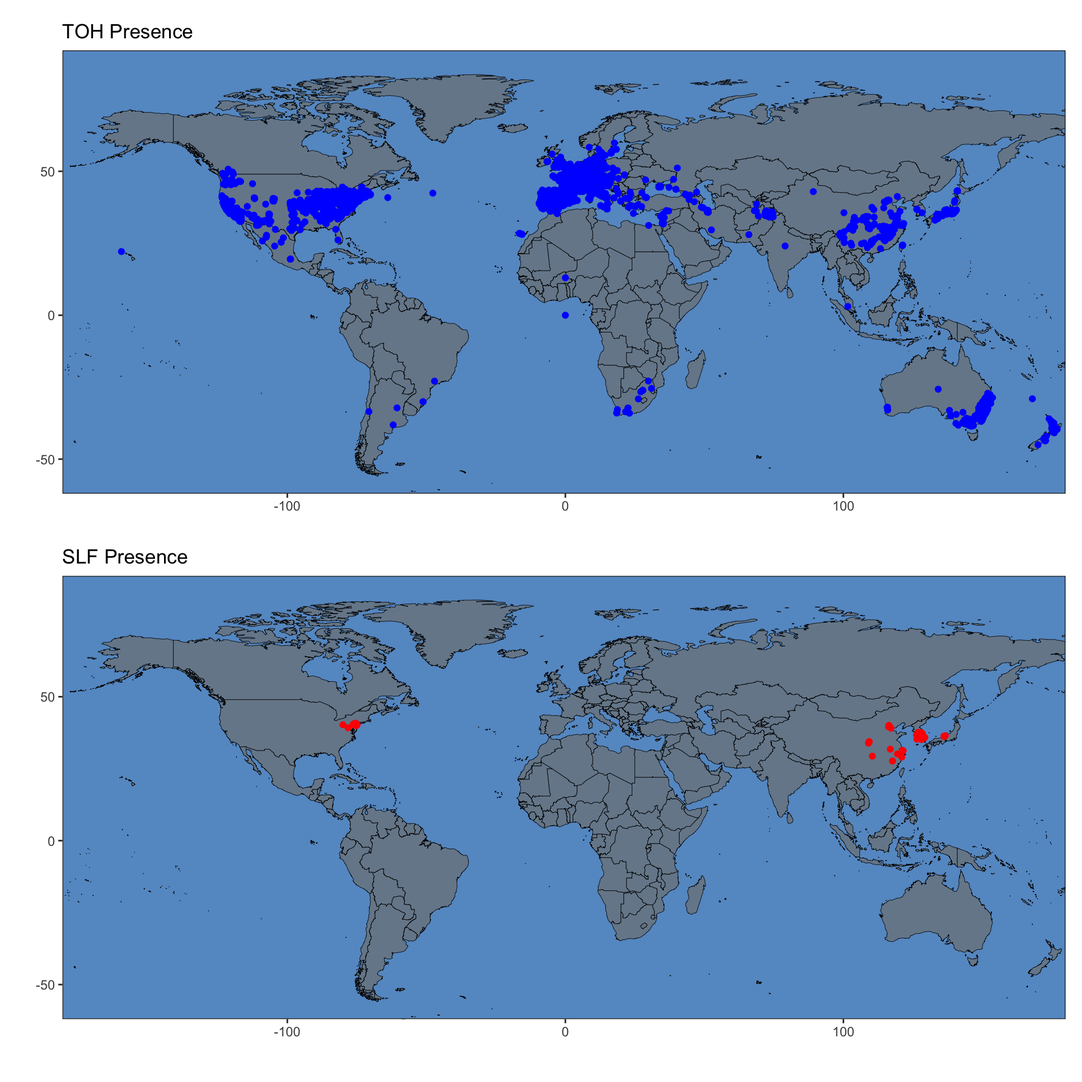
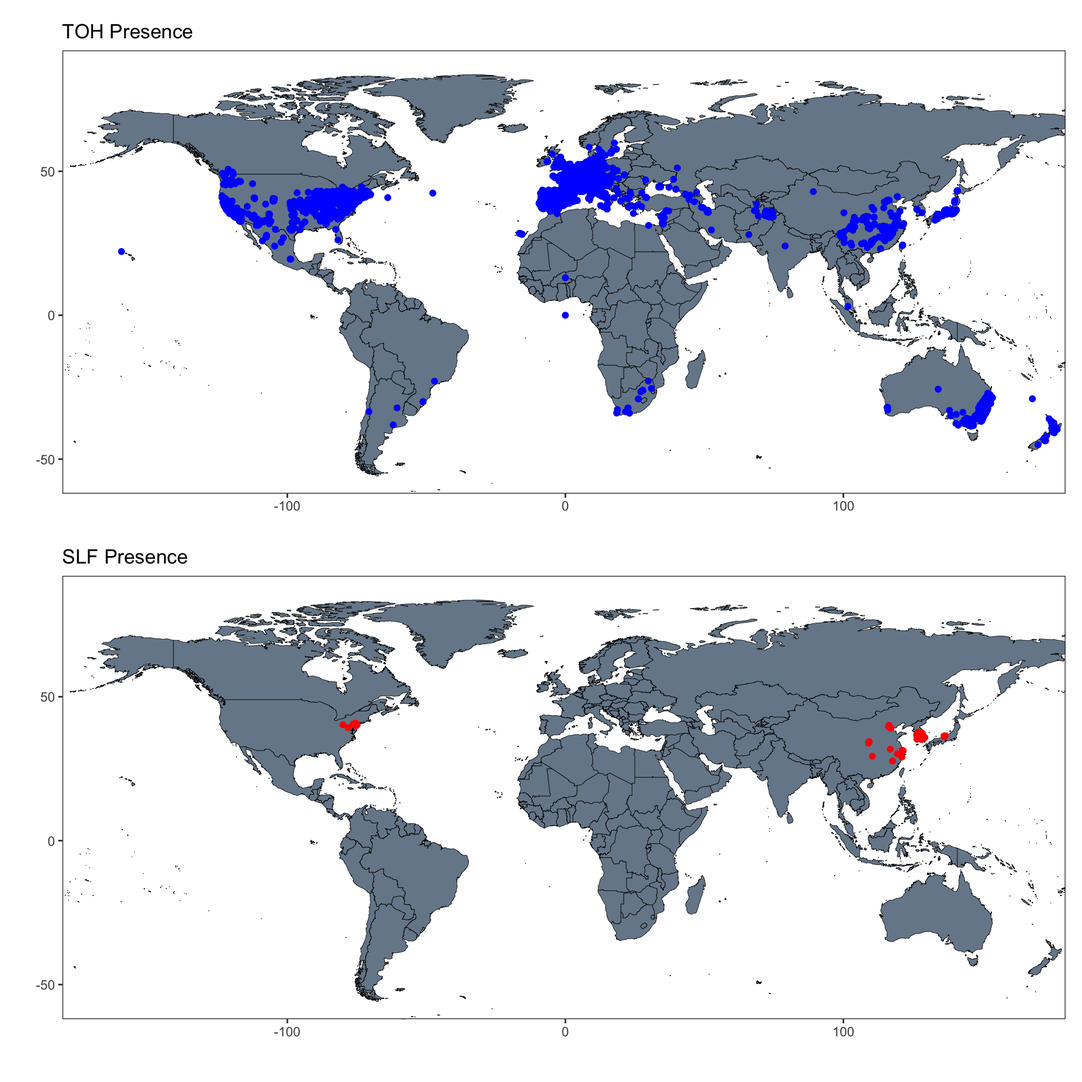
changed the title of vignettes and built site. threw a warning but still built

diff --git a/docs/articles/vignette-011-suitability-models.html b/docs/articles/vignette-011-suitability-models.html
@@ -5,13 +5,13 @@
 <meta charset="utf-8">
 <meta http-equiv="X-UA-Compatible" content="IE=edge">
 <meta name="viewport" content="width=device-width, initial-scale=1.0">
-<title>vignette-011-suitability-models • slfrsk</title>
+<title>Suitability Modeling &amp; Evaluation • slfrsk</title>
 <!-- jquery --><script src="https://cdnjs.cloudflare.com/ajax/libs/jquery/3.4.1/jquery.min.js" integrity="sha256-CSXorXvZcTkaix6Yvo6HppcZGetbYMGWSFlBw8HfCJo=" crossorigin="anonymous"></script><!-- Bootstrap --><link rel="stylesheet" href="https://cdnjs.cloudflare.com/ajax/libs/twitter-bootstrap/3.4.1/css/bootstrap.min.css" integrity="sha256-bZLfwXAP04zRMK2BjiO8iu9pf4FbLqX6zitd+tIvLhE=" crossorigin="anonymous">
 <script src="https://cdnjs.cloudflare.com/ajax/libs/twitter-bootstrap/3.4.1/js/bootstrap.min.js" integrity="sha256-nuL8/2cJ5NDSSwnKD8VqreErSWHtnEP9E7AySL+1ev4=" crossorigin="anonymous"></script><!-- bootstrap-toc --><link rel="stylesheet" href="../bootstrap-toc.css">
 <script src="../bootstrap-toc.js"></script><!-- Font Awesome icons --><link rel="stylesheet" href="https://cdnjs.cloudflare.com/ajax/libs/font-awesome/5.12.1/css/all.min.css" integrity="sha256-mmgLkCYLUQbXn0B1SRqzHar6dCnv9oZFPEC1g1cwlkk=" crossorigin="anonymous">
 <link rel="stylesheet" href="https://cdnjs.cloudflare.com/ajax/libs/font-awesome/5.12.1/css/v4-shims.min.css" integrity="sha256-wZjR52fzng1pJHwx4aV2AO3yyTOXrcDW7jBpJtTwVxw=" crossorigin="anonymous">
 <!-- clipboard.js --><script src="https://cdnjs.cloudflare.com/ajax/libs/clipboard.js/2.0.6/clipboard.min.js" integrity="sha256-inc5kl9MA1hkeYUt+EC3BhlIgyp/2jDIyBLS6k3UxPI=" crossorigin="anonymous"></script><!-- headroom.js --><script src="https://cdnjs.cloudflare.com/ajax/libs/headroom/0.11.0/headroom.min.js" integrity="sha256-AsUX4SJE1+yuDu5+mAVzJbuYNPHj/WroHuZ8Ir/CkE0=" crossorigin="anonymous"></script><script src="https://cdnjs.cloudflare.com/ajax/libs/headroom/0.11.0/jQuery.headroom.min.js" integrity="sha256-ZX/yNShbjqsohH1k95liqY9Gd8uOiE1S4vZc+9KQ1K4=" crossorigin="anonymous"></script><!-- pkgdown --><link href="../pkgdown.css" rel="stylesheet">
-<script src="../pkgdown.js"></script><meta property="og:title" content="vignette-011-suitability-models">
+<script src="../pkgdown.js"></script><meta property="og:title" content="Suitability Modeling &amp; Evaluation">
 <meta property="og:description" content="slfrsk">
 <!-- mathjax --><script src="https://cdnjs.cloudflare.com/ajax/libs/mathjax/2.7.5/MathJax.js" integrity="sha256-nvJJv9wWKEm88qvoQl9ekL2J+k/RWIsaSScxxlsrv8k=" crossorigin="anonymous"></script><script src="https://cdnjs.cloudflare.com/ajax/libs/mathjax/2.7.5/config/TeX-AMS-MML_HTMLorMML.js" integrity="sha256-84DKXVJXs0/F8OTMzX4UR909+jtl4G7SPypPavF+GfA=" crossorigin="anonymous"></script><!--[if lt IE 9]>
 <script src="https://oss.maxcdn.com/html5shiv/3.7.3/html5shiv.min.js"></script>
@@ -64,7 +64,7 @@
       <a href="../articles/vignette-030-risk-maps.html">Risk Map Plotting</a>
     </li>
     <li>
-      <a href="../articles/vignette-021-quadrant-plots.html">Invasion Potential Alignment Calculation</a>
+      <a href="../articles/vignette-021-quadrant-plots.html">Invasion Potential Alignment</a>
     </li>
     <li>
       <a href="../articles/vignette-041-market-plot.html">Wine Market Risk of Shock Evaluation</a>
@@ -96,7 +96,7 @@
       </header><script src="vignette-011-suitability-models_files/accessible-code-block-0.0.1/empty-anchor.js"></script><div class="row">
   <div class="col-md-9 contents">
     <div class="page-header toc-ignore">
-      <h1 data-toc-skip>vignette-011-suitability-models</h1>
+      <h1 data-toc-skip>Suitability Modeling &amp; Evaluation</h1>
             
       
       
@@ -145,7 +145,8 @@
   <span class="fu">labs</span>(<span class="kw">x</span> <span class="kw">=</span> <span class="st">""</span>, <span class="kw">y</span> <span class="kw">=</span> <span class="st">""</span>) +
   <span class="fu">theme</span>(<span class="kw">panel.grid.major</span> <span class="kw">=</span> <span class="fu">element_blank</span>(),
         <span class="kw">panel.grid.minor</span> <span class="kw">=</span> <span class="fu">element_blank</span>(),
-        <span class="kw">panel.background</span> <span class="kw">=</span> <span class="fu">element_rect</span>(<span class="kw">fill</span> <span class="kw">=</span> <span class="st">"#6699cc"</span>)) +
+        <span class="co">#panel.background = element_rect(fill = "#6699cc")) +</span>
+        <span class="kw">panel.background</span> <span class="kw">=</span> <span class="fu">element_blank</span>()) +
   <span class="fu">coord_quickmap</span>(<span class="kw">xlim</span> <span class="kw">=</span> <span class="fu"><a href="https://rdrr.io/r/base/c.html">c</a></span>(-<span class="fl">164.5</span>, <span class="fl">163.5</span>), <span class="kw">ylim</span> <span class="kw">=</span> <span class="fu"><a href="https://rdrr.io/r/base/c.html">c</a></span>(-<span class="fl">55</span>,<span class="fl">85</span>)) +
   <span class="fu">ggtitle</span>(<span class="kw">label</span> <span class="kw">=</span> <span class="st">"TOH Presence"</span>)
 
@@ -157,7 +158,8 @@
   <span class="fu">labs</span>(<span class="kw">x</span> <span class="kw">=</span> <span class="st">""</span>, <span class="kw">y</span> <span class="kw">=</span> <span class="st">""</span>) +
   <span class="fu">theme</span>(<span class="kw">panel.grid.major</span> <span class="kw">=</span> <span class="fu">element_blank</span>(),
         <span class="kw">panel.grid.minor</span> <span class="kw">=</span> <span class="fu">element_blank</span>(),
-        <span class="kw">panel.background</span> <span class="kw">=</span> <span class="fu">element_rect</span>(<span class="kw">fill</span> <span class="kw">=</span> <span class="st">"#6699cc"</span>)) +
+        <span class="co">#panel.background = element_rect(fill = "#6699cc")) +</span>
+        <span class="kw">panel.background</span> <span class="kw">=</span> <span class="fu">element_blank</span>()) +
   <span class="fu">coord_quickmap</span>(<span class="kw">xlim</span> <span class="kw">=</span> <span class="fu"><a href="https://rdrr.io/r/base/c.html">c</a></span>(-<span class="fl">164.5</span>, <span class="fl">163.5</span>), <span class="kw">ylim</span> <span class="kw">=</span> <span class="fu"><a href="https://rdrr.io/r/base/c.html">c</a></span>(-<span class="fl">55</span>,<span class="fl">85</span>)) +
   <span class="fu">ggtitle</span>(<span class="kw">label</span> <span class="kw">=</span> <span class="st">"SLF Presence"</span>)
 

diff --git a/docs/articles/vignette-041-market-plot.html b/docs/articles/vignette-041-market-plot.html
@@ -5,13 +5,13 @@
 <meta charset="utf-8">
 <meta http-equiv="X-UA-Compatible" content="IE=edge">
 <meta name="viewport" content="width=device-width, initial-scale=1.0">
-<title>vignette-041-market-plot • slfrsk</title>
+<title>Wine Market Risk of Shock Evaluation • slfrsk</title>
 <!-- jquery --><script src="https://cdnjs.cloudflare.com/ajax/libs/jquery/3.4.1/jquery.min.js" integrity="sha256-CSXorXvZcTkaix6Yvo6HppcZGetbYMGWSFlBw8HfCJo=" crossorigin="anonymous"></script><!-- Bootstrap --><link rel="stylesheet" href="https://cdnjs.cloudflare.com/ajax/libs/twitter-bootstrap/3.4.1/css/bootstrap.min.css" integrity="sha256-bZLfwXAP04zRMK2BjiO8iu9pf4FbLqX6zitd+tIvLhE=" crossorigin="anonymous">
 <script src="https://cdnjs.cloudflare.com/ajax/libs/twitter-bootstrap/3.4.1/js/bootstrap.min.js" integrity="sha256-nuL8/2cJ5NDSSwnKD8VqreErSWHtnEP9E7AySL+1ev4=" crossorigin="anonymous"></script><!-- bootstrap-toc --><link rel="stylesheet" href="../bootstrap-toc.css">
 <script src="../bootstrap-toc.js"></script><!-- Font Awesome icons --><link rel="stylesheet" href="https://cdnjs.cloudflare.com/ajax/libs/font-awesome/5.12.1/css/all.min.css" integrity="sha256-mmgLkCYLUQbXn0B1SRqzHar6dCnv9oZFPEC1g1cwlkk=" crossorigin="anonymous">
 <link rel="stylesheet" href="https://cdnjs.cloudflare.com/ajax/libs/font-awesome/5.12.1/css/v4-shims.min.css" integrity="sha256-wZjR52fzng1pJHwx4aV2AO3yyTOXrcDW7jBpJtTwVxw=" crossorigin="anonymous">
 <!-- clipboard.js --><script src="https://cdnjs.cloudflare.com/ajax/libs/clipboard.js/2.0.6/clipboard.min.js" integrity="sha256-inc5kl9MA1hkeYUt+EC3BhlIgyp/2jDIyBLS6k3UxPI=" crossorigin="anonymous"></script><!-- headroom.js --><script src="https://cdnjs.cloudflare.com/ajax/libs/headroom/0.11.0/headroom.min.js" integrity="sha256-AsUX4SJE1+yuDu5+mAVzJbuYNPHj/WroHuZ8Ir/CkE0=" crossorigin="anonymous"></script><script src="https://cdnjs.cloudflare.com/ajax/libs/headroom/0.11.0/jQuery.headroom.min.js" integrity="sha256-ZX/yNShbjqsohH1k95liqY9Gd8uOiE1S4vZc+9KQ1K4=" crossorigin="anonymous"></script><!-- pkgdown --><link href="../pkgdown.css" rel="stylesheet">
-<script src="../pkgdown.js"></script><meta property="og:title" content="vignette-041-market-plot">
+<script src="../pkgdown.js"></script><meta property="og:title" content="Wine Market Risk of Shock Evaluation">
 <meta property="og:description" content="slfrsk">
 <!-- mathjax --><script src="https://cdnjs.cloudflare.com/ajax/libs/mathjax/2.7.5/MathJax.js" integrity="sha256-nvJJv9wWKEm88qvoQl9ekL2J+k/RWIsaSScxxlsrv8k=" crossorigin="anonymous"></script><script src="https://cdnjs.cloudflare.com/ajax/libs/mathjax/2.7.5/config/TeX-AMS-MML_HTMLorMML.js" integrity="sha256-84DKXVJXs0/F8OTMzX4UR909+jtl4G7SPypPavF+GfA=" crossorigin="anonymous"></script><!--[if lt IE 9]>
 <script src="https://oss.maxcdn.com/html5shiv/3.7.3/html5shiv.min.js"></script>
@@ -64,7 +64,7 @@
       <a href="../articles/vignette-030-risk-maps.html">Risk Map Plotting</a>
     </li>
     <li>
-      <a href="../articles/vignette-021-quadrant-plots.html">Invasion Potential Alignment Calculation</a>
+      <a href="../articles/vignette-021-quadrant-plots.html">Invasion Potential Alignment</a>
     </li>
     <li>
       <a href="../articles/vignette-041-market-plot.html">Wine Market Risk of Shock Evaluation</a>
@@ -96,7 +96,7 @@
       </header><script src="vignette-041-market-plot_files/accessible-code-block-0.0.1/empty-anchor.js"></script><div class="row">
   <div class="col-md-9 contents">
     <div class="page-header toc-ignore">
-      <h1 data-toc-skip>vignette-041-market-plot</h1>
+      <h1 data-toc-skip>Wine Market Risk of Shock Evaluation</h1>
             
       
       

diff --git a/docs/articles/vignette-021-quadrant-plots.html b/docs/articles/vignette-021-quadrant-plots.html
@@ -5,13 +5,13 @@
 <meta charset="utf-8">
 <meta http-equiv="X-UA-Compatible" content="IE=edge">
 <meta name="viewport" content="width=device-width, initial-scale=1.0">
-<title>vignette-021-quadrant-plots • slfrsk</title>
+<title>Invasion Potential Alignment • slfrsk</title>
 <!-- jquery --><script src="https://cdnjs.cloudflare.com/ajax/libs/jquery/3.4.1/jquery.min.js" integrity="sha256-CSXorXvZcTkaix6Yvo6HppcZGetbYMGWSFlBw8HfCJo=" crossorigin="anonymous"></script><!-- Bootstrap --><link rel="stylesheet" href="https://cdnjs.cloudflare.com/ajax/libs/twitter-bootstrap/3.4.1/css/bootstrap.min.css" integrity="sha256-bZLfwXAP04zRMK2BjiO8iu9pf4FbLqX6zitd+tIvLhE=" crossorigin="anonymous">
 <script src="https://cdnjs.cloudflare.com/ajax/libs/twitter-bootstrap/3.4.1/js/bootstrap.min.js" integrity="sha256-nuL8/2cJ5NDSSwnKD8VqreErSWHtnEP9E7AySL+1ev4=" crossorigin="anonymous"></script><!-- bootstrap-toc --><link rel="stylesheet" href="../bootstrap-toc.css">
 <script src="../bootstrap-toc.js"></script><!-- Font Awesome icons --><link rel="stylesheet" href="https://cdnjs.cloudflare.com/ajax/libs/font-awesome/5.12.1/css/all.min.css" integrity="sha256-mmgLkCYLUQbXn0B1SRqzHar6dCnv9oZFPEC1g1cwlkk=" crossorigin="anonymous">
 <link rel="stylesheet" href="https://cdnjs.cloudflare.com/ajax/libs/font-awesome/5.12.1/css/v4-shims.min.css" integrity="sha256-wZjR52fzng1pJHwx4aV2AO3yyTOXrcDW7jBpJtTwVxw=" crossorigin="anonymous">
 <!-- clipboard.js --><script src="https://cdnjs.cloudflare.com/ajax/libs/clipboard.js/2.0.6/clipboard.min.js" integrity="sha256-inc5kl9MA1hkeYUt+EC3BhlIgyp/2jDIyBLS6k3UxPI=" crossorigin="anonymous"></script><!-- headroom.js --><script src="https://cdnjs.cloudflare.com/ajax/libs/headroom/0.11.0/headroom.min.js" integrity="sha256-AsUX4SJE1+yuDu5+mAVzJbuYNPHj/WroHuZ8Ir/CkE0=" crossorigin="anonymous"></script><script src="https://cdnjs.cloudflare.com/ajax/libs/headroom/0.11.0/jQuery.headroom.min.js" integrity="sha256-ZX/yNShbjqsohH1k95liqY9Gd8uOiE1S4vZc+9KQ1K4=" crossorigin="anonymous"></script><!-- pkgdown --><link href="../pkgdown.css" rel="stylesheet">
-<script src="../pkgdown.js"></script><meta property="og:title" content="vignette-021-quadrant-plots">
+<script src="../pkgdown.js"></script><meta property="og:title" content="Invasion Potential Alignment">
 <meta property="og:description" content="slfrsk">
 <!-- mathjax --><script src="https://cdnjs.cloudflare.com/ajax/libs/mathjax/2.7.5/MathJax.js" integrity="sha256-nvJJv9wWKEm88qvoQl9ekL2J+k/RWIsaSScxxlsrv8k=" crossorigin="anonymous"></script><script src="https://cdnjs.cloudflare.com/ajax/libs/mathjax/2.7.5/config/TeX-AMS-MML_HTMLorMML.js" integrity="sha256-84DKXVJXs0/F8OTMzX4UR909+jtl4G7SPypPavF+GfA=" crossorigin="anonymous"></script><!--[if lt IE 9]>
 <script src="https://oss.maxcdn.com/html5shiv/3.7.3/html5shiv.min.js"></script>
@@ -64,7 +64,7 @@
       <a href="../articles/vignette-030-risk-maps.html">Risk Map Plotting</a>
     </li>
     <li>
-      <a href="../articles/vignette-021-quadrant-plots.html">Invasion Potential Alignment Calculation</a>
+      <a href="../articles/vignette-021-quadrant-plots.html">Invasion Potential Alignment</a>
     </li>
     <li>
       <a href="../articles/vignette-041-market-plot.html">Wine Market Risk of Shock Evaluation</a>
@@ -96,7 +96,7 @@
       </header><script src="vignette-021-quadrant-plots_files/accessible-code-block-0.0.1/empty-anchor.js"></script><div class="row">
   <div class="col-md-9 contents">
     <div class="page-header toc-ignore">
-      <h1 data-toc-skip>vignette-021-quadrant-plots</h1>
+      <h1 data-toc-skip>Invasion Potential Alignment</h1>
             
       
       

diff --git a/docs/articles/vignette-040-ee-data.html b/docs/articles/vignette-040-ee-data.html
@@ -5,13 +5,13 @@
 <meta charset="utf-8">
 <meta http-equiv="X-UA-Compatible" content="IE=edge">
 <meta name="viewport" content="width=device-width, initial-scale=1.0">
-<title>vignette-040-ee-data • slfrsk</title>
+<title>Earth Engine Risk Extraction • slfrsk</title>
 <!-- jquery --><script src="https://cdnjs.cloudflare.com/ajax/libs/jquery/3.4.1/jquery.min.js" integrity="sha256-CSXorXvZcTkaix6Yvo6HppcZGetbYMGWSFlBw8HfCJo=" crossorigin="anonymous"></script><!-- Bootstrap --><link rel="stylesheet" href="https://cdnjs.cloudflare.com/ajax/libs/twitter-bootstrap/3.4.1/css/bootstrap.min.css" integrity="sha256-bZLfwXAP04zRMK2BjiO8iu9pf4FbLqX6zitd+tIvLhE=" crossorigin="anonymous">
 <script src="https://cdnjs.cloudflare.com/ajax/libs/twitter-bootstrap/3.4.1/js/bootstrap.min.js" integrity="sha256-nuL8/2cJ5NDSSwnKD8VqreErSWHtnEP9E7AySL+1ev4=" crossorigin="anonymous"></script><!-- bootstrap-toc --><link rel="stylesheet" href="../bootstrap-toc.css">
 <script src="../bootstrap-toc.js"></script><!-- Font Awesome icons --><link rel="stylesheet" href="https://cdnjs.cloudflare.com/ajax/libs/font-awesome/5.12.1/css/all.min.css" integrity="sha256-mmgLkCYLUQbXn0B1SRqzHar6dCnv9oZFPEC1g1cwlkk=" crossorigin="anonymous">
 <link rel="stylesheet" href="https://cdnjs.cloudflare.com/ajax/libs/font-awesome/5.12.1/css/v4-shims.min.css" integrity="sha256-wZjR52fzng1pJHwx4aV2AO3yyTOXrcDW7jBpJtTwVxw=" crossorigin="anonymous">
 <!-- clipboard.js --><script src="https://cdnjs.cloudflare.com/ajax/libs/clipboard.js/2.0.6/clipboard.min.js" integrity="sha256-inc5kl9MA1hkeYUt+EC3BhlIgyp/2jDIyBLS6k3UxPI=" crossorigin="anonymous"></script><!-- headroom.js --><script src="https://cdnjs.cloudflare.com/ajax/libs/headroom/0.11.0/headroom.min.js" integrity="sha256-AsUX4SJE1+yuDu5+mAVzJbuYNPHj/WroHuZ8Ir/CkE0=" crossorigin="anonymous"></script><script src="https://cdnjs.cloudflare.com/ajax/libs/headroom/0.11.0/jQuery.headroom.min.js" integrity="sha256-ZX/yNShbjqsohH1k95liqY9Gd8uOiE1S4vZc+9KQ1K4=" crossorigin="anonymous"></script><!-- pkgdown --><link href="../pkgdown.css" rel="stylesheet">
-<script src="../pkgdown.js"></script><meta property="og:title" content="vignette-040-ee-data">
+<script src="../pkgdown.js"></script><meta property="og:title" content="Earth Engine Risk Extraction">
 <meta property="og:description" content="slfrsk">
 <!-- mathjax --><script src="https://cdnjs.cloudflare.com/ajax/libs/mathjax/2.7.5/MathJax.js" integrity="sha256-nvJJv9wWKEm88qvoQl9ekL2J+k/RWIsaSScxxlsrv8k=" crossorigin="anonymous"></script><script src="https://cdnjs.cloudflare.com/ajax/libs/mathjax/2.7.5/config/TeX-AMS-MML_HTMLorMML.js" integrity="sha256-84DKXVJXs0/F8OTMzX4UR909+jtl4G7SPypPavF+GfA=" crossorigin="anonymous"></script><!--[if lt IE 9]>
 <script src="https://oss.maxcdn.com/html5shiv/3.7.3/html5shiv.min.js"></script>
@@ -64,7 +64,7 @@
       <a href="../articles/vignette-030-risk-maps.html">Risk Map Plotting</a>
     </li>
     <li>
-      <a href="../articles/vignette-021-quadrant-plots.html">Invasion Potential Alignment Calculation</a>
+      <a href="../articles/vignette-021-quadrant-plots.html">Invasion Potential Alignment</a>
     </li>
     <li>
       <a href="../articles/vignette-041-market-plot.html">Wine Market Risk of Shock Evaluation</a>
@@ -96,7 +96,7 @@
       </header><script src="vignette-040-ee-data_files/accessible-code-block-0.0.1/empty-anchor.js"></script><div class="row">
   <div class="col-md-9 contents">
     <div class="page-header toc-ignore">
-      <h1 data-toc-skip>vignette-040-ee-data</h1>
+      <h1 data-toc-skip>Earth Engine Risk Extraction</h1>
             
       
       

diff --git a/docs/articles/vignette-030-risk-maps.html b/docs/articles/vignette-030-risk-maps.html
@@ -5,13 +5,13 @@
 <meta charset="utf-8">
 <meta http-equiv="X-UA-Compatible" content="IE=edge">
 <meta name="viewport" content="width=device-width, initial-scale=1.0">
-<title>vignette-030-risk-maps • slfrsk</title>
+<title>Risk Map Plotting • slfrsk</title>
 <!-- jquery --><script src="https://cdnjs.cloudflare.com/ajax/libs/jquery/3.4.1/jquery.min.js" integrity="sha256-CSXorXvZcTkaix6Yvo6HppcZGetbYMGWSFlBw8HfCJo=" crossorigin="anonymous"></script><!-- Bootstrap --><link rel="stylesheet" href="https://cdnjs.cloudflare.com/ajax/libs/twitter-bootstrap/3.4.1/css/bootstrap.min.css" integrity="sha256-bZLfwXAP04zRMK2BjiO8iu9pf4FbLqX6zitd+tIvLhE=" crossorigin="anonymous">
 <script src="https://cdnjs.cloudflare.com/ajax/libs/twitter-bootstrap/3.4.1/js/bootstrap.min.js" integrity="sha256-nuL8/2cJ5NDSSwnKD8VqreErSWHtnEP9E7AySL+1ev4=" crossorigin="anonymous"></script><!-- bootstrap-toc --><link rel="stylesheet" href="../bootstrap-toc.css">
 <script src="../bootstrap-toc.js"></script><!-- Font Awesome icons --><link rel="stylesheet" href="https://cdnjs.cloudflare.com/ajax/libs/font-awesome/5.12.1/css/all.min.css" integrity="sha256-mmgLkCYLUQbXn0B1SRqzHar6dCnv9oZFPEC1g1cwlkk=" crossorigin="anonymous">
 <link rel="stylesheet" href="https://cdnjs.cloudflare.com/ajax/libs/font-awesome/5.12.1/css/v4-shims.min.css" integrity="sha256-wZjR52fzng1pJHwx4aV2AO3yyTOXrcDW7jBpJtTwVxw=" crossorigin="anonymous">
 <!-- clipboard.js --><script src="https://cdnjs.cloudflare.com/ajax/libs/clipboard.js/2.0.6/clipboard.min.js" integrity="sha256-inc5kl9MA1hkeYUt+EC3BhlIgyp/2jDIyBLS6k3UxPI=" crossorigin="anonymous"></script><!-- headroom.js --><script src="https://cdnjs.cloudflare.com/ajax/libs/headroom/0.11.0/headroom.min.js" integrity="sha256-AsUX4SJE1+yuDu5+mAVzJbuYNPHj/WroHuZ8Ir/CkE0=" crossorigin="anonymous"></script><script src="https://cdnjs.cloudflare.com/ajax/libs/headroom/0.11.0/jQuery.headroom.min.js" integrity="sha256-ZX/yNShbjqsohH1k95liqY9Gd8uOiE1S4vZc+9KQ1K4=" crossorigin="anonymous"></script><!-- pkgdown --><link href="../pkgdown.css" rel="stylesheet">
-<script src="../pkgdown.js"></script><meta property="og:title" content="vignette-030-risk-maps">
+<script src="../pkgdown.js"></script><meta property="og:title" content="Risk Map Plotting">
 <meta property="og:description" content="slfrsk">
 <!-- mathjax --><script src="https://cdnjs.cloudflare.com/ajax/libs/mathjax/2.7.5/MathJax.js" integrity="sha256-nvJJv9wWKEm88qvoQl9ekL2J+k/RWIsaSScxxlsrv8k=" crossorigin="anonymous"></script><script src="https://cdnjs.cloudflare.com/ajax/libs/mathjax/2.7.5/config/TeX-AMS-MML_HTMLorMML.js" integrity="sha256-84DKXVJXs0/F8OTMzX4UR909+jtl4G7SPypPavF+GfA=" crossorigin="anonymous"></script><!--[if lt IE 9]>
 <script src="https://oss.maxcdn.com/html5shiv/3.7.3/html5shiv.min.js"></script>
@@ -64,7 +64,7 @@
       <a href="../articles/vignette-030-risk-maps.html">Risk Map Plotting</a>
     </li>
     <li>
-      <a href="../articles/vignette-021-quadrant-plots.html">Invasion Potential Alignment Calculation</a>
+      <a href="../articles/vignette-021-quadrant-plots.html">Invasion Potential Alignment</a>
     </li>
     <li>
       <a href="../articles/vignette-041-market-plot.html">Wine Market Risk of Shock Evaluation</a>
@@ -96,7 +96,7 @@
       </header><script src="vignette-030-risk-maps_files/accessible-code-block-0.0.1/empty-anchor.js"></script><div class="row">
   <div class="col-md-9 contents">
     <div class="page-header toc-ignore">
-      <h1 data-toc-skip>vignette-030-risk-maps</h1>
+      <h1 data-toc-skip>Risk Map Plotting</h1>
             
       
       

diff --git a/docs/articles/vignette-010-tidy-data.html b/docs/articles/vignette-010-tidy-data.html
@@ -5,13 +5,13 @@
 <meta charset="utf-8">
 <meta http-equiv="X-UA-Compatible" content="IE=edge">
 <meta name="viewport" content="width=device-width, initial-scale=1.0">
-<title>vignette-010-tidy-data • slfrsk</title>
+<title>Data Tidying • slfrsk</title>
 <!-- jquery --><script src="https://cdnjs.cloudflare.com/ajax/libs/jquery/3.4.1/jquery.min.js" integrity="sha256-CSXorXvZcTkaix6Yvo6HppcZGetbYMGWSFlBw8HfCJo=" crossorigin="anonymous"></script><!-- Bootstrap --><link rel="stylesheet" href="https://cdnjs.cloudflare.com/ajax/libs/twitter-bootstrap/3.4.1/css/bootstrap.min.css" integrity="sha256-bZLfwXAP04zRMK2BjiO8iu9pf4FbLqX6zitd+tIvLhE=" crossorigin="anonymous">
 <script src="https://cdnjs.cloudflare.com/ajax/libs/twitter-bootstrap/3.4.1/js/bootstrap.min.js" integrity="sha256-nuL8/2cJ5NDSSwnKD8VqreErSWHtnEP9E7AySL+1ev4=" crossorigin="anonymous"></script><!-- bootstrap-toc --><link rel="stylesheet" href="../bootstrap-toc.css">
 <script src="../bootstrap-toc.js"></script><!-- Font Awesome icons --><link rel="stylesheet" href="https://cdnjs.cloudflare.com/ajax/libs/font-awesome/5.12.1/css/all.min.css" integrity="sha256-mmgLkCYLUQbXn0B1SRqzHar6dCnv9oZFPEC1g1cwlkk=" crossorigin="anonymous">
 <link rel="stylesheet" href="https://cdnjs.cloudflare.com/ajax/libs/font-awesome/5.12.1/css/v4-shims.min.css" integrity="sha256-wZjR52fzng1pJHwx4aV2AO3yyTOXrcDW7jBpJtTwVxw=" crossorigin="anonymous">
 <!-- clipboard.js --><script src="https://cdnjs.cloudflare.com/ajax/libs/clipboard.js/2.0.6/clipboard.min.js" integrity="sha256-inc5kl9MA1hkeYUt+EC3BhlIgyp/2jDIyBLS6k3UxPI=" crossorigin="anonymous"></script><!-- headroom.js --><script src="https://cdnjs.cloudflare.com/ajax/libs/headroom/0.11.0/headroom.min.js" integrity="sha256-AsUX4SJE1+yuDu5+mAVzJbuYNPHj/WroHuZ8Ir/CkE0=" crossorigin="anonymous"></script><script src="https://cdnjs.cloudflare.com/ajax/libs/headroom/0.11.0/jQuery.headroom.min.js" integrity="sha256-ZX/yNShbjqsohH1k95liqY9Gd8uOiE1S4vZc+9KQ1K4=" crossorigin="anonymous"></script><!-- pkgdown --><link href="../pkgdown.css" rel="stylesheet">
-<script src="../pkgdown.js"></script><meta property="og:title" content="vignette-010-tidy-data">
+<script src="../pkgdown.js"></script><meta property="og:title" content="Data Tidying">
 <meta property="og:description" content="slfrsk">
 <!-- mathjax --><script src="https://cdnjs.cloudflare.com/ajax/libs/mathjax/2.7.5/MathJax.js" integrity="sha256-nvJJv9wWKEm88qvoQl9ekL2J+k/RWIsaSScxxlsrv8k=" crossorigin="anonymous"></script><script src="https://cdnjs.cloudflare.com/ajax/libs/mathjax/2.7.5/config/TeX-AMS-MML_HTMLorMML.js" integrity="sha256-84DKXVJXs0/F8OTMzX4UR909+jtl4G7SPypPavF+GfA=" crossorigin="anonymous"></script><!--[if lt IE 9]>
 <script src="https://oss.maxcdn.com/html5shiv/3.7.3/html5shiv.min.js"></script>
@@ -64,7 +64,7 @@
       <a href="../articles/vignette-030-risk-maps.html">Risk Map Plotting</a>
     </li>
     <li>
-      <a href="../articles/vignette-021-quadrant-plots.html">Invasion Potential Alignment Calculation</a>
+      <a href="../articles/vignette-021-quadrant-plots.html">Invasion Potential Alignment</a>
     </li>
     <li>
       <a href="../articles/vignette-041-market-plot.html">Wine Market Risk of Shock Evaluation</a>
@@ -96,7 +96,7 @@
       </header><script src="vignette-010-tidy-data_files/accessible-code-block-0.0.1/empty-anchor.js"></script><div class="row">
   <div class="col-md-9 contents">
     <div class="page-header toc-ignore">
-      <h1 data-toc-skip>vignette-010-tidy-data</h1>
+      <h1 data-toc-skip>Data Tidying</h1>
             
       
       

diff --git a/docs/articles/vignette-001-overview.html b/docs/articles/vignette-001-overview.html
@@ -5,13 +5,13 @@
 <meta charset="utf-8">
 <meta http-equiv="X-UA-Compatible" content="IE=edge">
 <meta name="viewport" content="width=device-width, initial-scale=1.0">
-<title>vignette-001-overview • slfrsk</title>
+<title>Overview • slfrsk</title>
 <!-- jquery --><script src="https://cdnjs.cloudflare.com/ajax/libs/jquery/3.4.1/jquery.min.js" integrity="sha256-CSXorXvZcTkaix6Yvo6HppcZGetbYMGWSFlBw8HfCJo=" crossorigin="anonymous"></script><!-- Bootstrap --><link rel="stylesheet" href="https://cdnjs.cloudflare.com/ajax/libs/twitter-bootstrap/3.4.1/css/bootstrap.min.css" integrity="sha256-bZLfwXAP04zRMK2BjiO8iu9pf4FbLqX6zitd+tIvLhE=" crossorigin="anonymous">
 <script src="https://cdnjs.cloudflare.com/ajax/libs/twitter-bootstrap/3.4.1/js/bootstrap.min.js" integrity="sha256-nuL8/2cJ5NDSSwnKD8VqreErSWHtnEP9E7AySL+1ev4=" crossorigin="anonymous"></script><!-- bootstrap-toc --><link rel="stylesheet" href="../bootstrap-toc.css">
 <script src="../bootstrap-toc.js"></script><!-- Font Awesome icons --><link rel="stylesheet" href="https://cdnjs.cloudflare.com/ajax/libs/font-awesome/5.12.1/css/all.min.css" integrity="sha256-mmgLkCYLUQbXn0B1SRqzHar6dCnv9oZFPEC1g1cwlkk=" crossorigin="anonymous">
 <link rel="stylesheet" href="https://cdnjs.cloudflare.com/ajax/libs/font-awesome/5.12.1/css/v4-shims.min.css" integrity="sha256-wZjR52fzng1pJHwx4aV2AO3yyTOXrcDW7jBpJtTwVxw=" crossorigin="anonymous">
 <!-- clipboard.js --><script src="https://cdnjs.cloudflare.com/ajax/libs/clipboard.js/2.0.6/clipboard.min.js" integrity="sha256-inc5kl9MA1hkeYUt+EC3BhlIgyp/2jDIyBLS6k3UxPI=" crossorigin="anonymous"></script><!-- headroom.js --><script src="https://cdnjs.cloudflare.com/ajax/libs/headroom/0.11.0/headroom.min.js" integrity="sha256-AsUX4SJE1+yuDu5+mAVzJbuYNPHj/WroHuZ8Ir/CkE0=" crossorigin="anonymous"></script><script src="https://cdnjs.cloudflare.com/ajax/libs/headroom/0.11.0/jQuery.headroom.min.js" integrity="sha256-ZX/yNShbjqsohH1k95liqY9Gd8uOiE1S4vZc+9KQ1K4=" crossorigin="anonymous"></script><!-- pkgdown --><link href="../pkgdown.css" rel="stylesheet">
-<script src="../pkgdown.js"></script><meta property="og:title" content="vignette-001-overview">
+<script src="../pkgdown.js"></script><meta property="og:title" content="Overview">
 <meta property="og:description" content="slfrsk">
 <!-- mathjax --><script src="https://cdnjs.cloudflare.com/ajax/libs/mathjax/2.7.5/MathJax.js" integrity="sha256-nvJJv9wWKEm88qvoQl9ekL2J+k/RWIsaSScxxlsrv8k=" crossorigin="anonymous"></script><script src="https://cdnjs.cloudflare.com/ajax/libs/mathjax/2.7.5/config/TeX-AMS-MML_HTMLorMML.js" integrity="sha256-84DKXVJXs0/F8OTMzX4UR909+jtl4G7SPypPavF+GfA=" crossorigin="anonymous"></script><!--[if lt IE 9]>
 <script src="https://oss.maxcdn.com/html5shiv/3.7.3/html5shiv.min.js"></script>
@@ -64,7 +64,7 @@
       <a href="../articles/vignette-030-risk-maps.html">Risk Map Plotting</a>
     </li>
     <li>
-      <a href="../articles/vignette-021-quadrant-plots.html">Invasion Potential Alignment Calculation</a>
+      <a href="../articles/vignette-021-quadrant-plots.html">Invasion Potential Alignment</a>
     </li>
     <li>
       <a href="../articles/vignette-041-market-plot.html">Wine Market Risk of Shock Evaluation</a>
@@ -96,7 +96,7 @@
       </header><script src="vignette-001-overview_files/accessible-code-block-0.0.1/empty-anchor.js"></script><div class="row">
   <div class="col-md-9 contents">
     <div class="page-header toc-ignore">
-      <h1 data-toc-skip>vignette-001-overview</h1>
+      <h1 data-toc-skip>Overview</h1>
             
       
       

diff --git a/docs/articles/index.html b/docs/articles/index.html
@@ -104,7 +104,7 @@
       <a href="../articles/vignette-030-risk-maps.html">Risk Map Plotting</a>
     </li>
     <li>
-      <a href="../articles/vignette-021-quadrant-plots.html">Invasion Potential Alignment Calculation</a>
+      <a href="../articles/vignette-021-quadrant-plots.html">Invasion Potential Alignment</a>
     </li>
     <li>
       <a href="../articles/vignette-041-market-plot.html">Wine Market Risk of Shock Evaluation</a>
@@ -144,19 +144,19 @@
       <p class="section-desc"></p>
 
       <dl>
-        <dt><a href="vignette-001-overview.html">vignette-001-overview</a></dt>
+        <dt><a href="vignette-001-overview.html">Overview</a></dt>
         <dd></dt>
-        <dt><a href="vignette-010-tidy-data.html">vignette-010-tidy-data</a></dt>
+        <dt><a href="vignette-010-tidy-data.html">Data Tidying</a></dt>
         <dd></dt>
-        <dt><a href="vignette-011-suitability-models.html">vignette-011-suitability-models</a></dt>
+        <dt><a href="vignette-011-suitability-models.html">Suitability Modeling &amp; Evaluation</a></dt>
         <dd></dt>
-        <dt><a href="vignette-021-quadrant-plots.html">vignette-021-quadrant-plots</a></dt>
+        <dt><a href="vignette-021-quadrant-plots.html">Invasion Potential Alignment</a></dt>
         <dd></dt>
-        <dt><a href="vignette-030-risk-maps.html">vignette-030-risk-maps</a></dt>
+        <dt><a href="vignette-030-risk-maps.html">Risk Map Plotting</a></dt>
         <dd></dt>
-        <dt><a href="vignette-040-ee-data.html">vignette-040-ee-data</a></dt>
+        <dt><a href="vignette-040-ee-data.html">Earth Engine Risk Extraction</a></dt>
         <dd></dt>
-        <dt><a href="vignette-041-market-plot.html">vignette-041-market-plot</a></dt>
+        <dt><a href="vignette-041-market-plot.html">Wine Market Risk of Shock Evaluation</a></dt>
         <dd></dt>
       </dl>
     </div>

diff --git a/docs/reference/index.html b/docs/reference/index.html
@@ -104,7 +104,7 @@
       <a href="../articles/vignette-030-risk-maps.html">Risk Map Plotting</a>
     </li>
     <li>
-      <a href="../articles/vignette-021-quadrant-plots.html">Invasion Potential Alignment Calculation</a>
+      <a href="../articles/vignette-021-quadrant-plots.html">Invasion Potential Alignment</a>
     </li>
     <li>
       <a href="../articles/vignette-041-market-plot.html">Wine Market Risk of Shock Evaluation</a>

diff --git a/docs/404.html b/docs/404.html
@@ -104,7 +104,7 @@
       <a href="articles/vignette-030-risk-maps.html">Risk Map Plotting</a>
     </li>
     <li>
-      <a href="articles/vignette-021-quadrant-plots.html">Invasion Potential Alignment Calculation</a>
+      <a href="articles/vignette-021-quadrant-plots.html">Invasion Potential Alignment</a>
     </li>
     <li>
       <a href="articles/vignette-041-market-plot.html">Wine Market Risk of Shock Evaluation</a>

diff --git a/docs/LICENSE-text.html b/docs/LICENSE-text.html
@@ -104,7 +104,7 @@
       <a href="articles/vignette-030-risk-maps.html">Risk Map Plotting</a>
     </li>
     <li>
-      <a href="articles/vignette-021-quadrant-plots.html">Invasion Potential Alignment Calculation</a>
+      <a href="articles/vignette-021-quadrant-plots.html">Invasion Potential Alignment</a>
     </li>
     <li>
       <a href="articles/vignette-041-market-plot.html">Wine Market Risk of Shock Evaluation</a>

diff --git a/docs/LICENSE.html b/docs/LICENSE.html
@@ -104,7 +104,7 @@
       <a href="articles/vignette-030-risk-maps.html">Risk Map Plotting</a>
     </li>
     <li>
-      <a href="articles/vignette-021-quadrant-plots.html">Invasion Potential Alignment Calculation</a>
+      <a href="articles/vignette-021-quadrant-plots.html">Invasion Potential Alignment</a>
     </li>
     <li>
       <a href="articles/vignette-041-market-plot.html">Wine Market Risk of Shock Evaluation</a>
